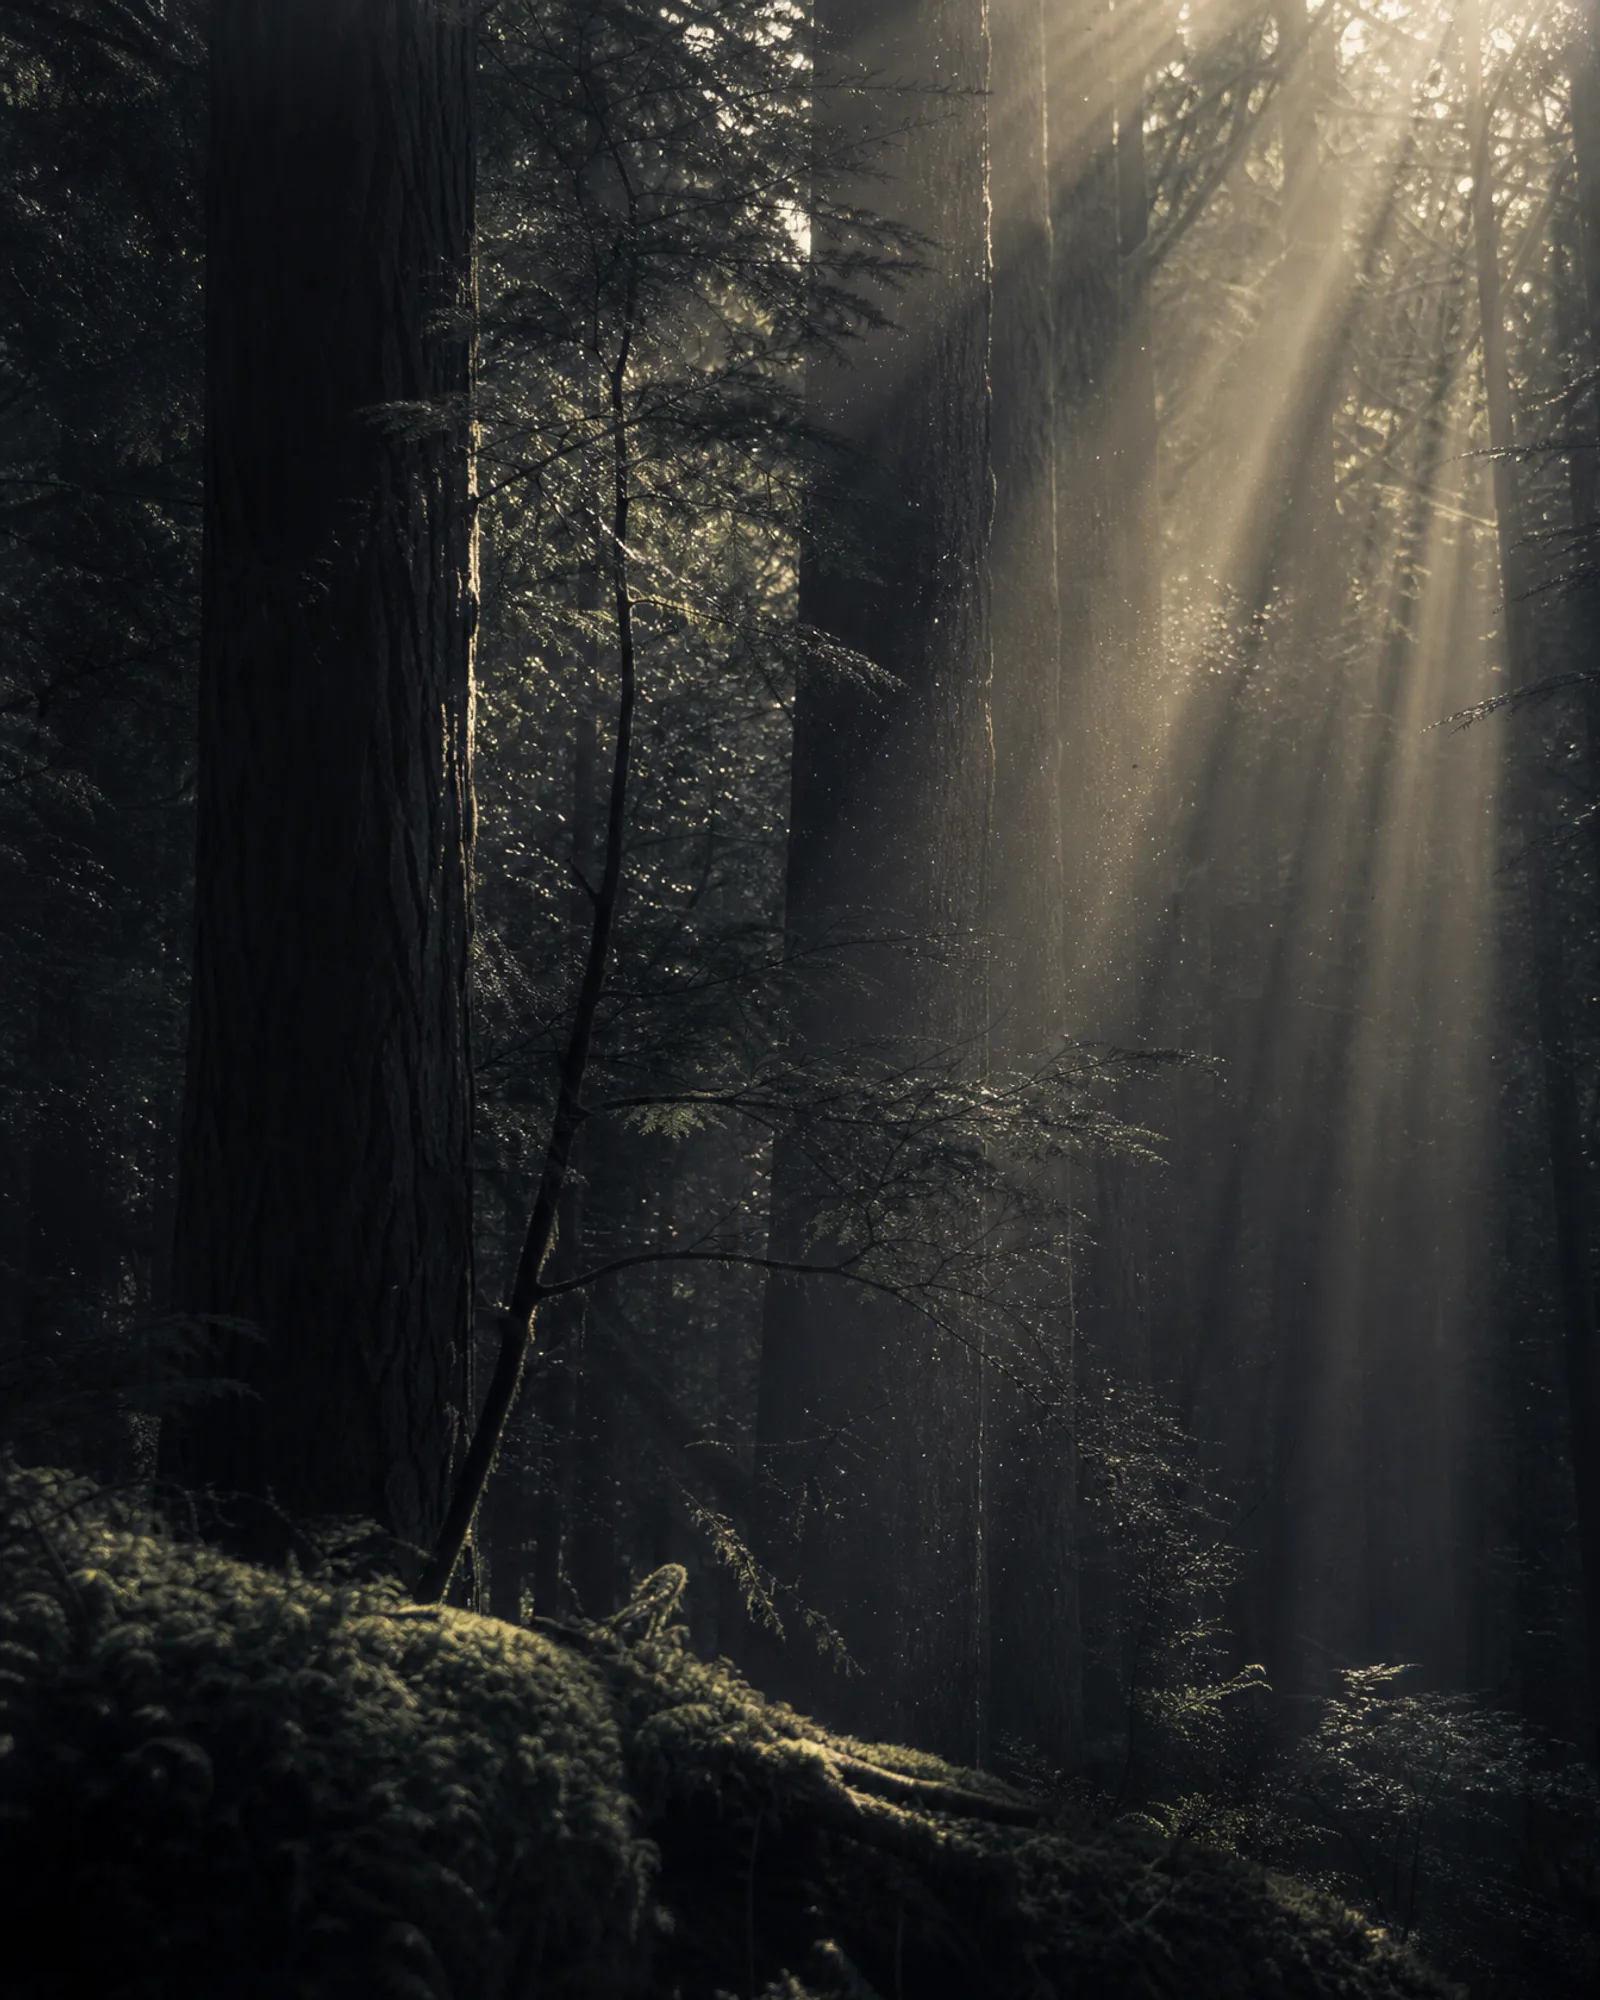
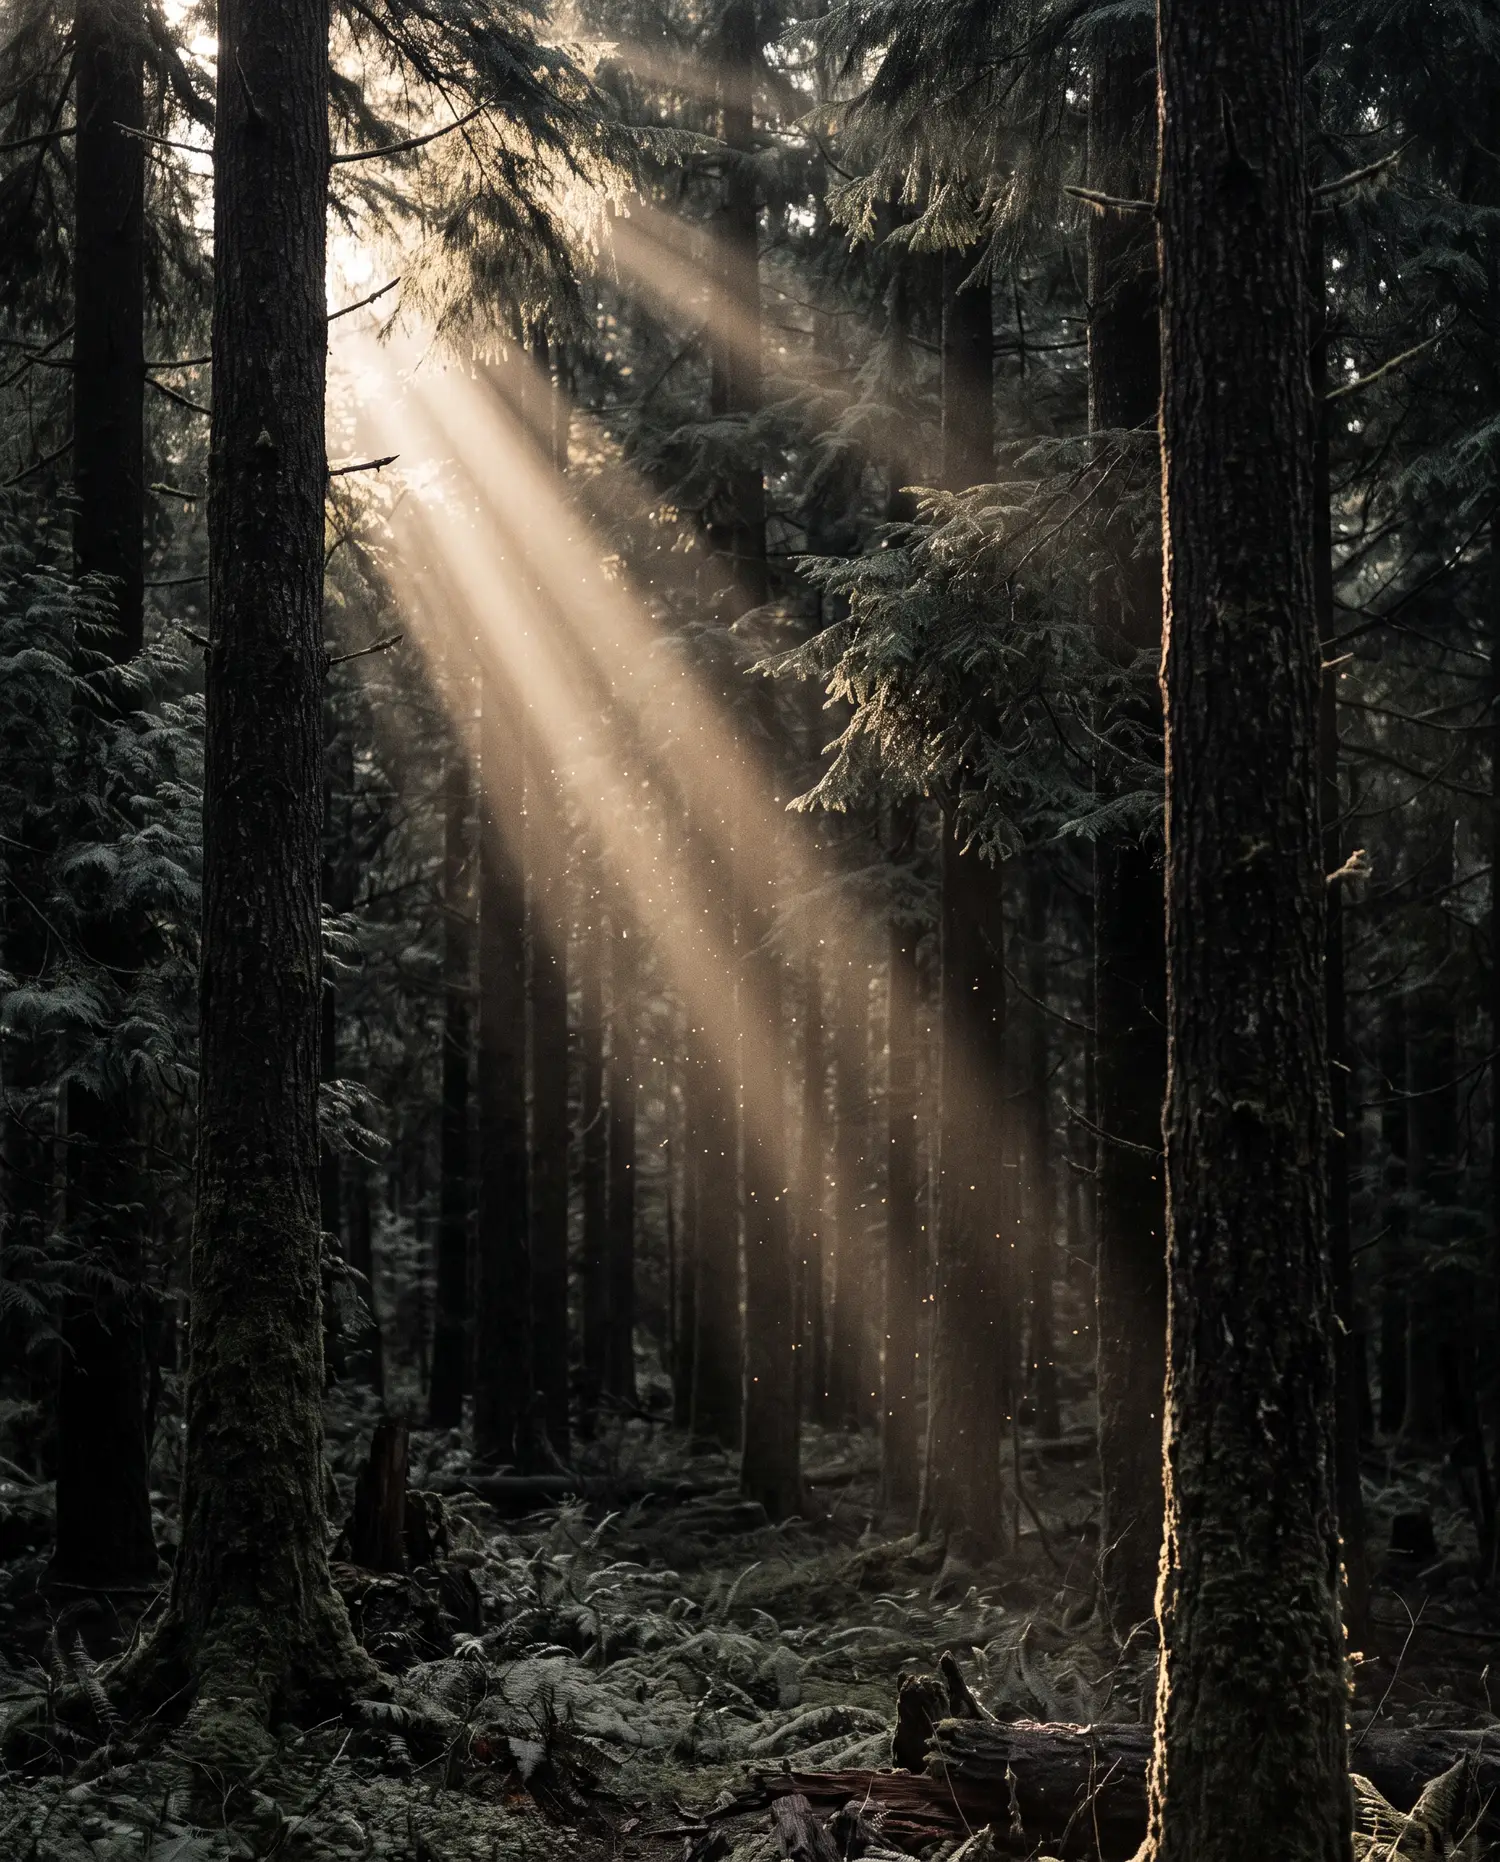
Fix hard-band masking bug; upgrade atmospheres to Nano Banana
- Move edge-fade masks onto static containers so they no longer scale out
  of the clip box on the breathing images (the rectangular band)
- Soften Collection room seams
- Remove Chapter 07 light-band image; it is now pure type over the Ether
- Regenerate rain/forest/fire atmospheres with Nano Banana 2

diff --git a/components/sections/Time.tsx b/components/sections/Time.tsx
@@ -16,32 +16,10 @@ const HOURS = [
 export default function Time() {
   return (
     <section id="time" className="chapter relative py-24">
-      {/* The chapter is about light, so the light is the chapter. One frame
-          holding morning and dusk at once — warm where it lands, cold where it
-          doesn't. It bleeds edge to edge and dissolves into the void. */}
-      <div className="pointer-events-none relative mb-24 w-full overflow-hidden">
-        {/* eslint-disable-next-line @next/next/no-img-element */}
-        <img
-          src="/media/time-light.webp"
-          alt="A shaft of light crossing an empty room"
-          className="noir-breathe h-[52vh] w-full object-cover"
-          style={{
-            maskImage:
-              "linear-gradient(to bottom, transparent, #000 22%, #000 72%, transparent 100%)",
-            WebkitMaskImage:
-              "linear-gradient(to bottom, transparent, #000 22%, #000 72%, transparent 100%)",
-          }}
-        />
-        <div
-          className="absolute inset-0"
-          style={{
-            background:
-              "linear-gradient(to right, #050505 0%, rgba(5,5,5,0.1) 28%, rgba(5,5,5,0.1) 72%, #050505 100%)",
-          }}
-        />
-      </div>
-
-      <div className="mx-auto max-w-5xl px-6">
+      {/* No image here. This chapter is about light you never notice changing —
+          so it stays pure type over the Ether, whose colour temperature is
+          already drifting morning -> midnight beneath the words. */}
+      <div className="mx-auto max-w-5xl px-6 pt-16">
       <ChapterMark index="07" title="Time" />
 
       <Reveal>

diff --git a/components/sections/Collection.tsx b/components/sections/Collection.tsx
@@ -56,12 +56,13 @@ export default function Collection() {
                 "linear-gradient(100deg, rgba(5,5,5,0.94) 0%, rgba(5,5,5,0.78) 32%, rgba(5,5,5,0.28) 62%, rgba(5,5,5,0.05) 100%)",
             }}
           />
-          {/* the void still owns the seams between rooms */}
+          {/* the void owns the seams between rooms — a long, soft dissolve so
+              one room melts into the next instead of ending on a hard line */}
           <div
             className="pointer-events-none absolute inset-0"
             style={{
               background:
-                "linear-gradient(to bottom, #050505 0%, rgba(5,5,5,0) 18%, rgba(5,5,5,0) 82%, #050505 100%)",
+                "linear-gradient(to bottom, #050505 0%, rgba(5,5,5,0) 34%, rgba(5,5,5,0) 66%, #050505 100%)",
             }}
           />
           <div className="relative z-[2] mx-auto flex w-full max-w-6xl flex-col px-6">